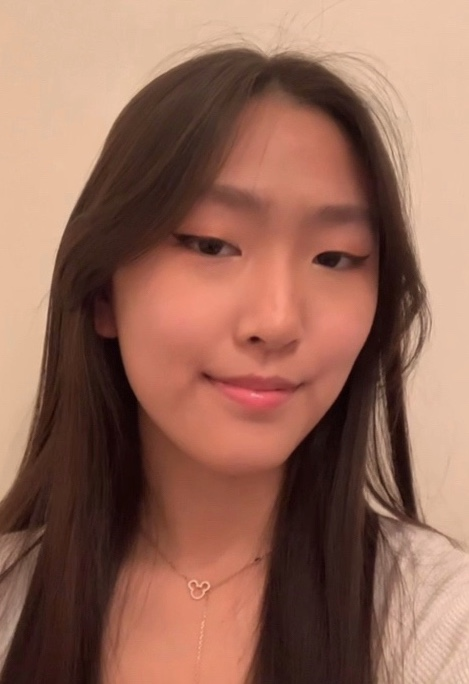
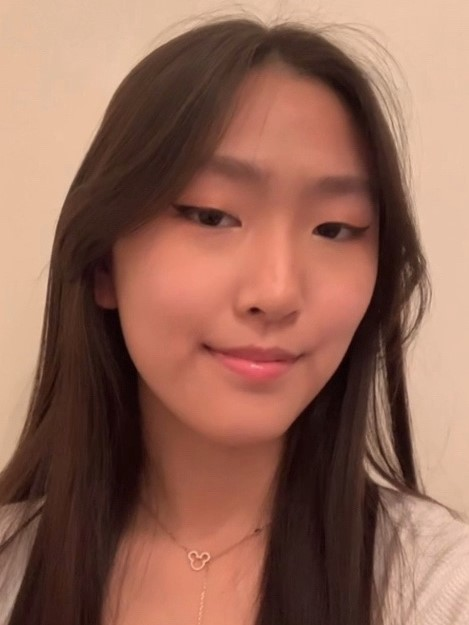
Fixed spacing and picture size on team page

diff --git a/team.html b/team.html
@@ -201,7 +201,7 @@
 
           <div class="col-lg-3 col-md-6 mt-5 mt-lg-0">
             <div class="member" data-aos="zoom-in" data-aos-delay="100">
-              <div class="pic"><img src="assets/img/team/tina.png" class="img-fluid" width='272' alt="">
+              <div class="pic"><img src="assets/img/team/tina.png" class="img-fluid" alt="">
               </div>
               <div class="member-info">
                 <h4>Tahmina Faez</h4>
@@ -216,9 +216,9 @@
         </div>
         <div class="row" data-aos="fade-left">
 
-          <div class="col-lg-3 col-md-6 mt-5 mt-lg-0">
+          <div class="col-lg-3 col-md-6 mt-5 ">
             <div class="member" data-aos="zoom-in" data-aos-delay="400">
-              <div class="pic"><img src="assets/img/team/leah.jpg" width='360' class="img-fluid" alt="">
+              <div class="pic"><img src="assets/img/team/leahR.jpg" class="img-fluid" alt="">
               </div>
               <div class="member-info">
                 <h4>Leah Cai</h4>
@@ -231,7 +231,7 @@
             </div>
           </div>
 
-          <div class="col-lg-3 col-md-6 mt-5 mt-md-0">
+          <div class="col-lg-3 col-md-6 mt-5 ">
             <div class="member" data-aos="zoom-in" data-aos-delay="200">
               <div class="pic"><img src="assets/img/team/me.jpg" class="img-fluid" alt=""></div>
               <div class="member-info">
@@ -245,7 +245,7 @@
             </div>
           </div>
 
-          <div class="col-lg-3 col-md-6 mt-5 mt-lg-0">
+          <div class="col-lg-3 col-md-6 mt-5 ">
             <div class="member" data-aos="zoom-in" data-aos-delay="300">
               <div class="pic"><img src="assets/img/team/andrew.JPG" class="img-fluid" alt=""></div>
               <div class="member-info">
@@ -259,7 +259,7 @@
             </div>
           </div>
 
-          <div class="col-lg-3 col-md-6 mt-3">
+          <div class="col-lg-3 col-md-6 mt-5 ">
             <div class="member" data-aos="zoom-in" data-aos-delay="200">
               <div class="pic"><img src="assets/img/team/fiona.jpg" class="img-fluid" alt=""></div>
               <div class="member-info">
@@ -273,7 +273,7 @@
             </div>
           </div>
 
-          <div class="col-lg-3 col-md-6 mt-3">
+          <div class="col-lg-3 col-md-6 mt-5">
             <div class="member" data-aos="zoom-in" data-aos-delay="300">
               <div class="pic"><img src="assets/img/team/mychau.jpg" class="img-fluid" alt=""></div>
               <div class="member-info">
@@ -287,9 +287,9 @@
             </div>
           </div>
 
-          <div class="col-lg-3 col-md-6 mt-3">
+          <div class="col-lg-3 col-md-6 mt-5">
             <div class="member" data-aos="zoom-in" data-aos-delay="400">
-              <div class="pic"><img src="assets/img/team/angela.jpeg" class="img-fluid" alt="">
+              <div class="pic"><img src="assets/img/team/angela.jpg" class="img-fluid" alt="">
               </div>
               <div class="member-info">
                 <h4>Angela Zielke-Stray</h4>
@@ -303,9 +303,9 @@
           </div>
 
 
-          <div class="col-lg-3 col-md-6 mt-3">
+          <div class="col-lg-3 col-md-6 mt-5">
             <div class="member" data-aos="zoom-in" data-aos-delay="100">
-              <div class="pic"><img src="assets/img/team/Gurman.jpeg" class="img-fluid" alt=""></div>
+              <div class="pic"><img src="assets/img/team/Gurman.jpg" class="img-fluid" alt=""></div>
               <div class="member-info">
                 <h4>Gurman Sahota</h4>
                 <span>Volunteers and Interview Team Member </span>
@@ -317,9 +317,9 @@
             </div>
           </div>
 
-          <div class="col-lg-3 col-md-6 mt-3">
+          <div class="col-lg-3 col-md-6 mt-5">
             <div class="member" data-aos="zoom-in" data-aos-delay="100">
-              <div class="pic"><img src="assets/img/team/Anne.JPG" width="260" class="img-fluid rounded" alt="">
+              <div class="pic"><img src="assets/img/team/Anne.JPG" class="img-fluid" alt="">
               </div>
               <div class="member-info">
                 <h4>Anne Zhang</h4>
@@ -332,14 +332,38 @@
             </div>
           </div>
 
+          <!-- <div class="col-lg-3 col-md-6 mt-5">
+            <div class="member" data-aos="zoom-in" data-aos-delay="400">
+              <div class="pic"><img src="assets/img/team/Juliane Alves.jpeg" class="img-fluid" alt="">
+              </div>
+              <div class="member-info">
+                <h4>Julianne Alves</h4>
+                <span>Quality Assurance Team Member</span>
+                   <div class="social">
+                  <a href=""><i class="bi bi-instagram"></i></a>
+                  <a href=""><i class="bi bi-linkedin"></i></a>
+                </div> 
+              </div>
+            </div>
+          </div>
+
+          <div class="col-lg-3 col-md-6 mt-5 mt-md-0">
+            <div class="member" data-aos="zoom-in" data-aos-delay="200">
+              <div class="pic"><img src="assets/img/team/Suneet Mahal.jpg" class="img-fluid" alt=""></div>
+              <div class="member-info">
+                <h4>Suneet Mahal</h4>
+                <span>Quality Assurance Team Member</span>
+                <  <div class="social">
+                  <a href=""><i class="bi bi-instagram"></i></a>
+                  <a href=""><i class="bi bi-linkedin"></i></a>
+                </div> 
+              </div>
+            </div>
+          </div> -->
         </div>
 
       </div>
       <div class="row" data-aos="fade-left">
-
-
-
-
 
 
       </div>
